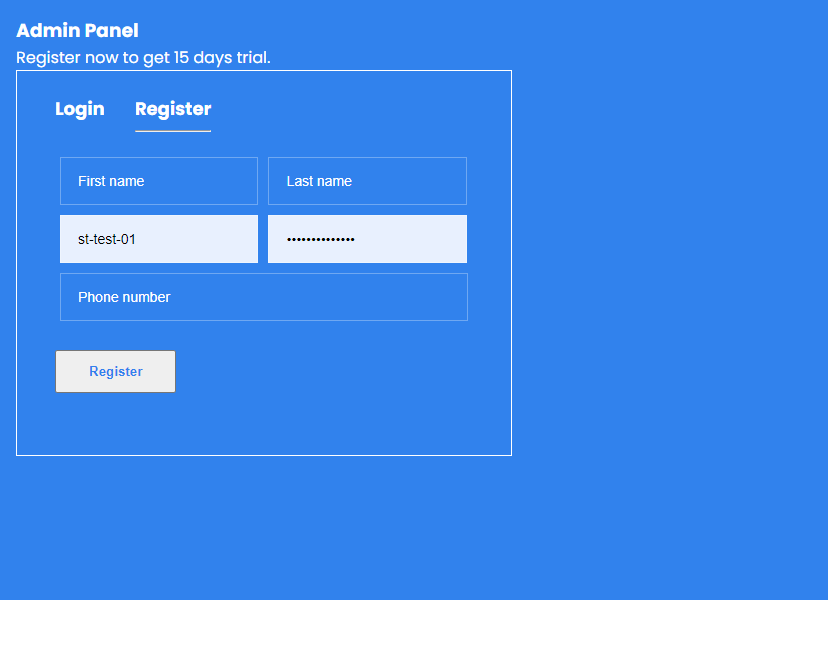
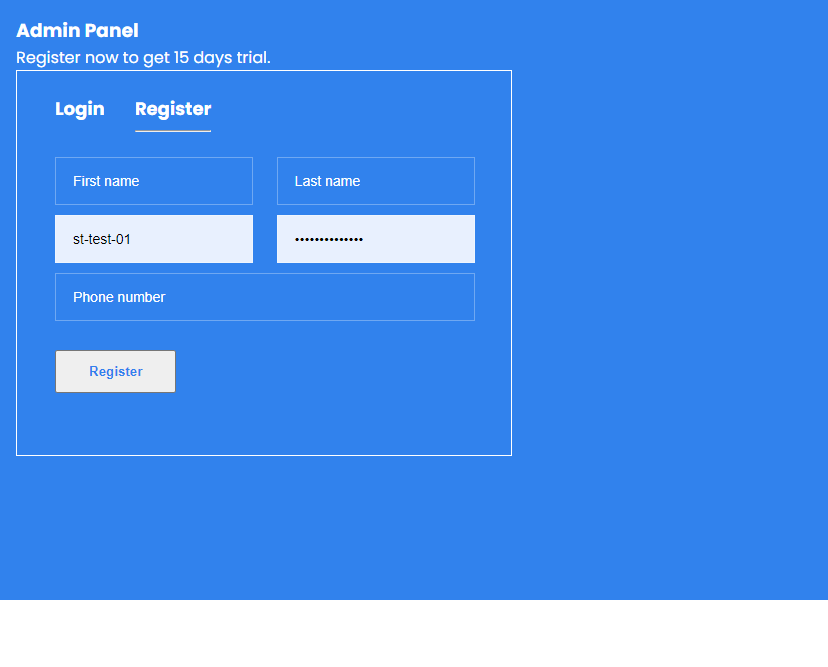
style: Input spaced properly

diff --git a/src/components/FormElements/Input/Input.tsx b/src/components/FormElements/Input/Input.tsx
@@ -16,7 +16,7 @@ const Input: FC<IInputProps> = (props) => {
   function styleInput() {
     let style = {};
     props.width === 'full'
-      ? style = {...style, width: 'calc(100% - 0.625rem)'}
+      ? style = {...style, width: '100%'}
       : style = {...style, width: '12.40rem'}
 
     return style;

diff --git a/src/components/FormElements/Input/input.module.css b/src/components/FormElements/Input/input.module.css
@@ -1,5 +1,5 @@
 .input {
-  margin: 0.3125rem;
+  margin: 0.3125rem 0;
   border: 1px solid hsla(var(--white), 0.3);
   padding: 0.813rem 1.063rem;
   height: 3rem;

diff --git a/src/features/Home/_components/Intro/Form/_components/Register/_components/RegisterInputs/registerInputs.module.css b/src/features/Home/_components/Intro/Form/_components/Register/_components/RegisterInputs/registerInputs.module.css
@@ -1,0 +1,6 @@
+.register-inputs {
+  display: flex;
+  justify-content: space-between;
+  flex-wrap: wrap;
+  width: 26.25rem;
+}
